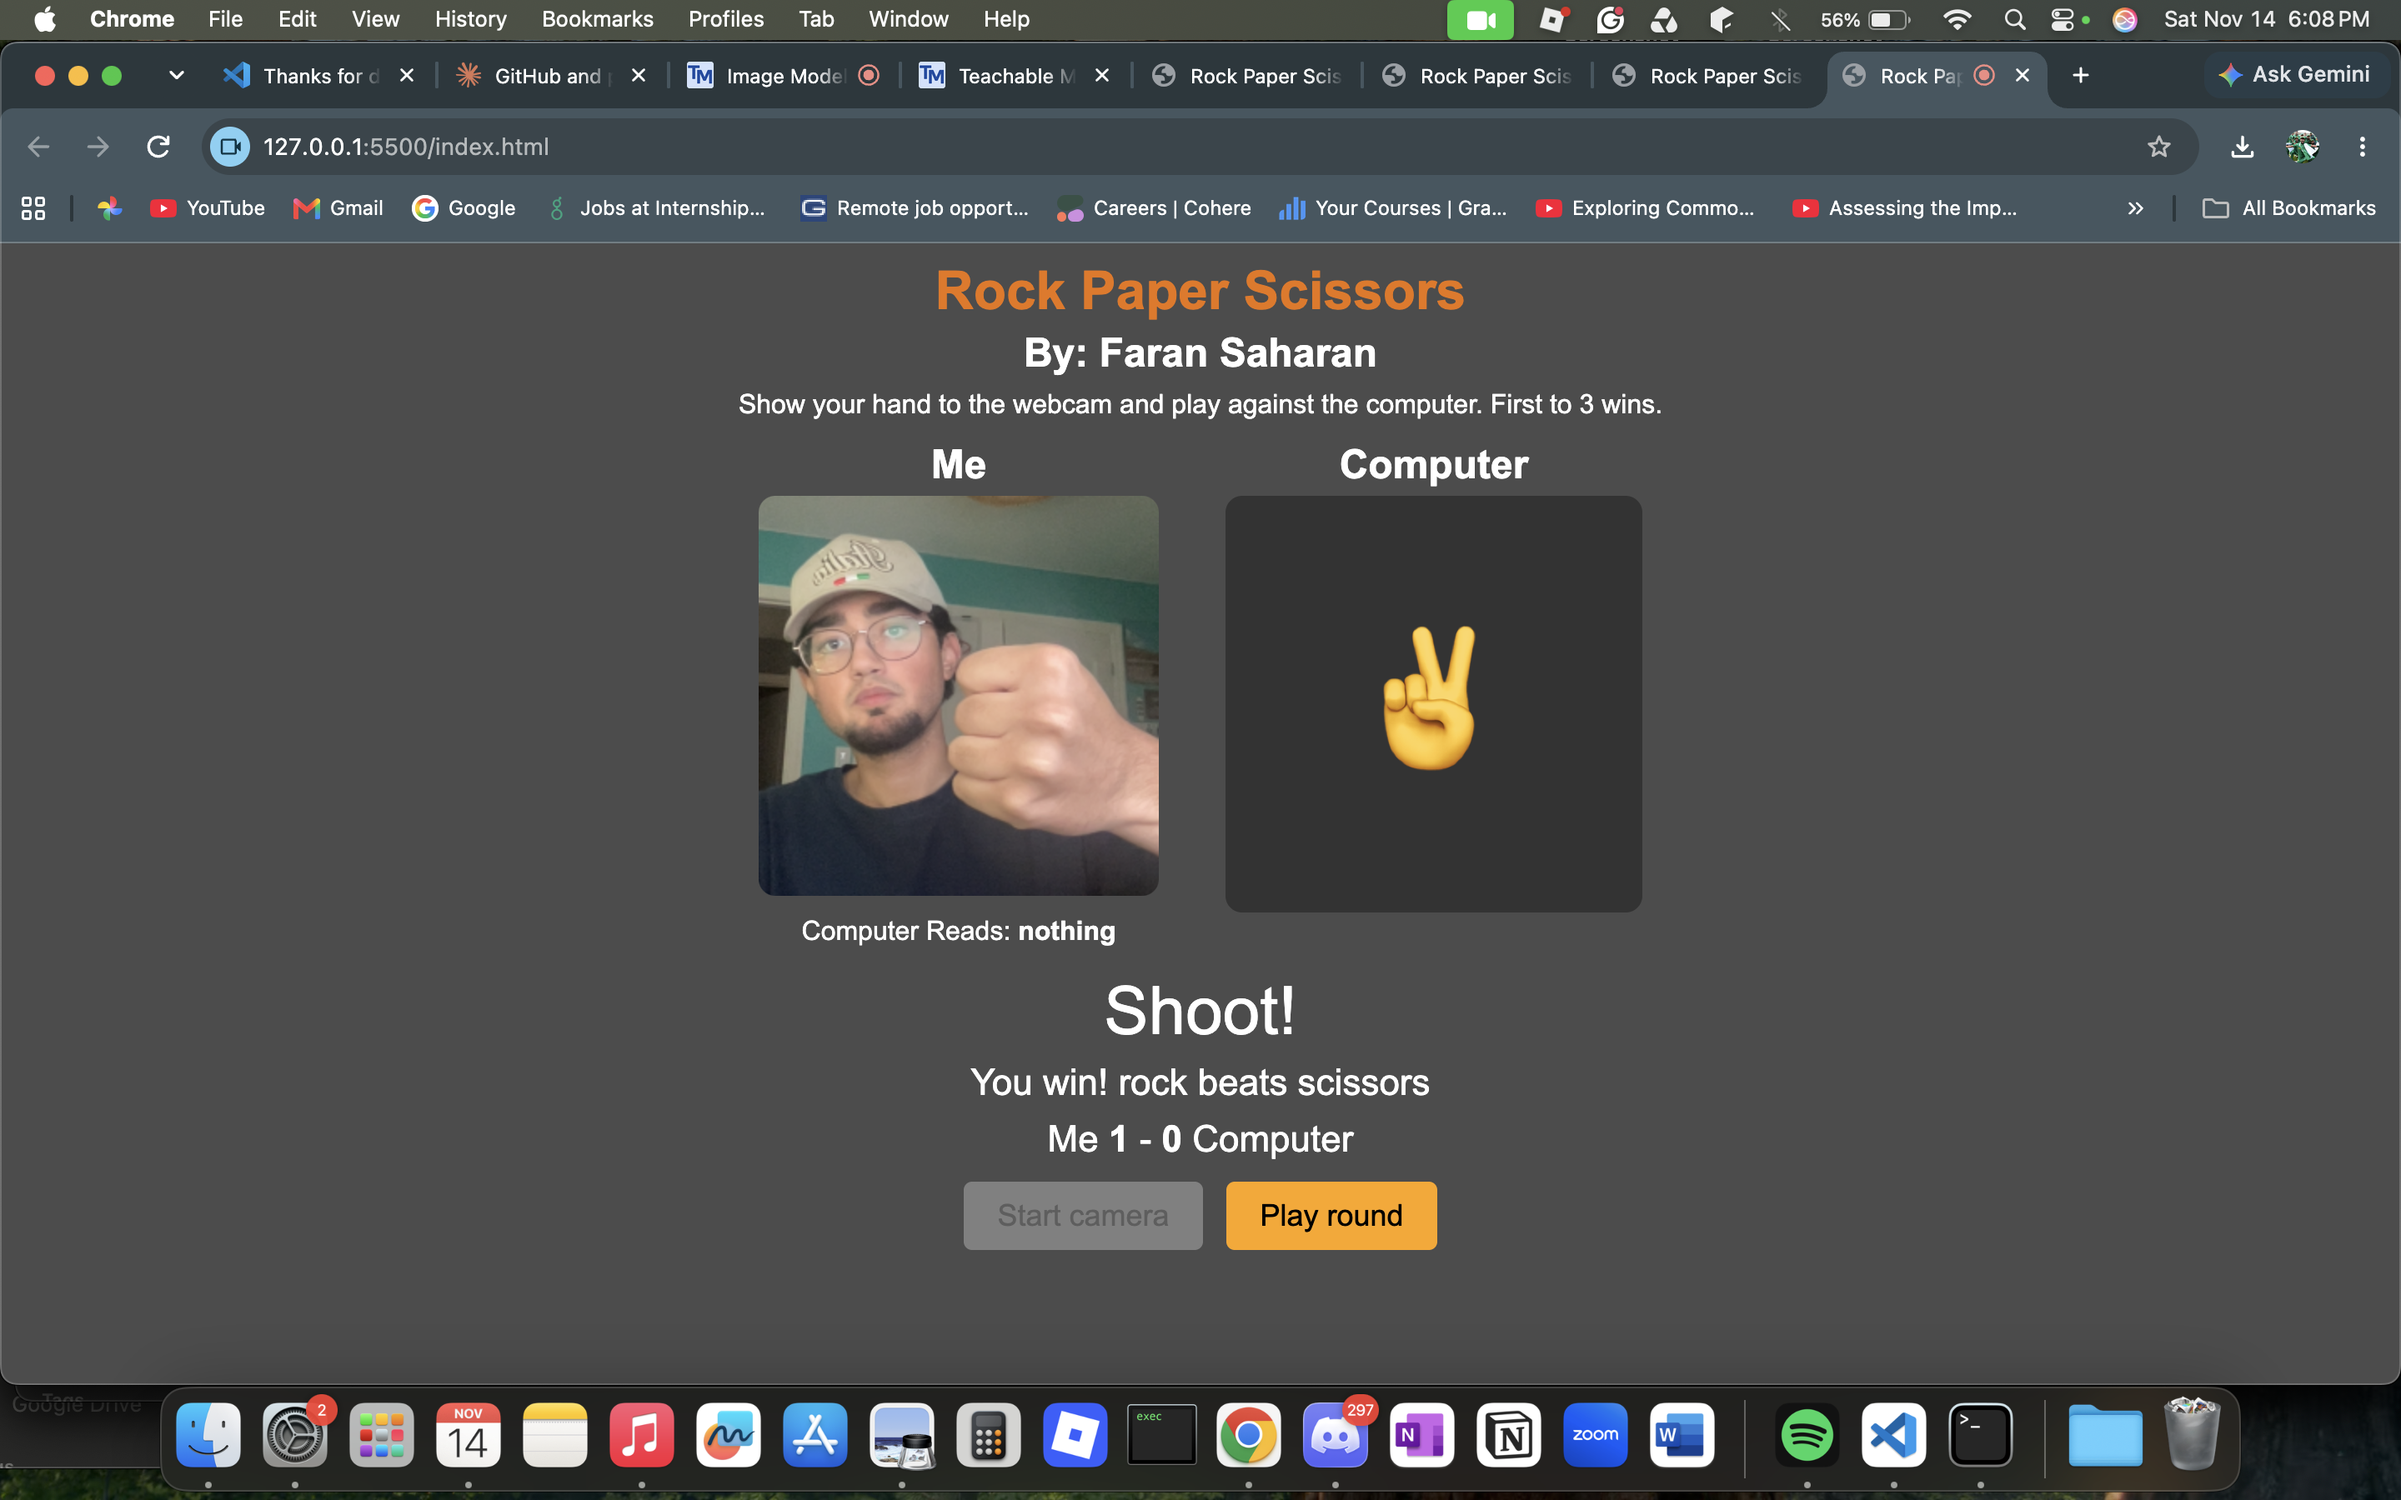
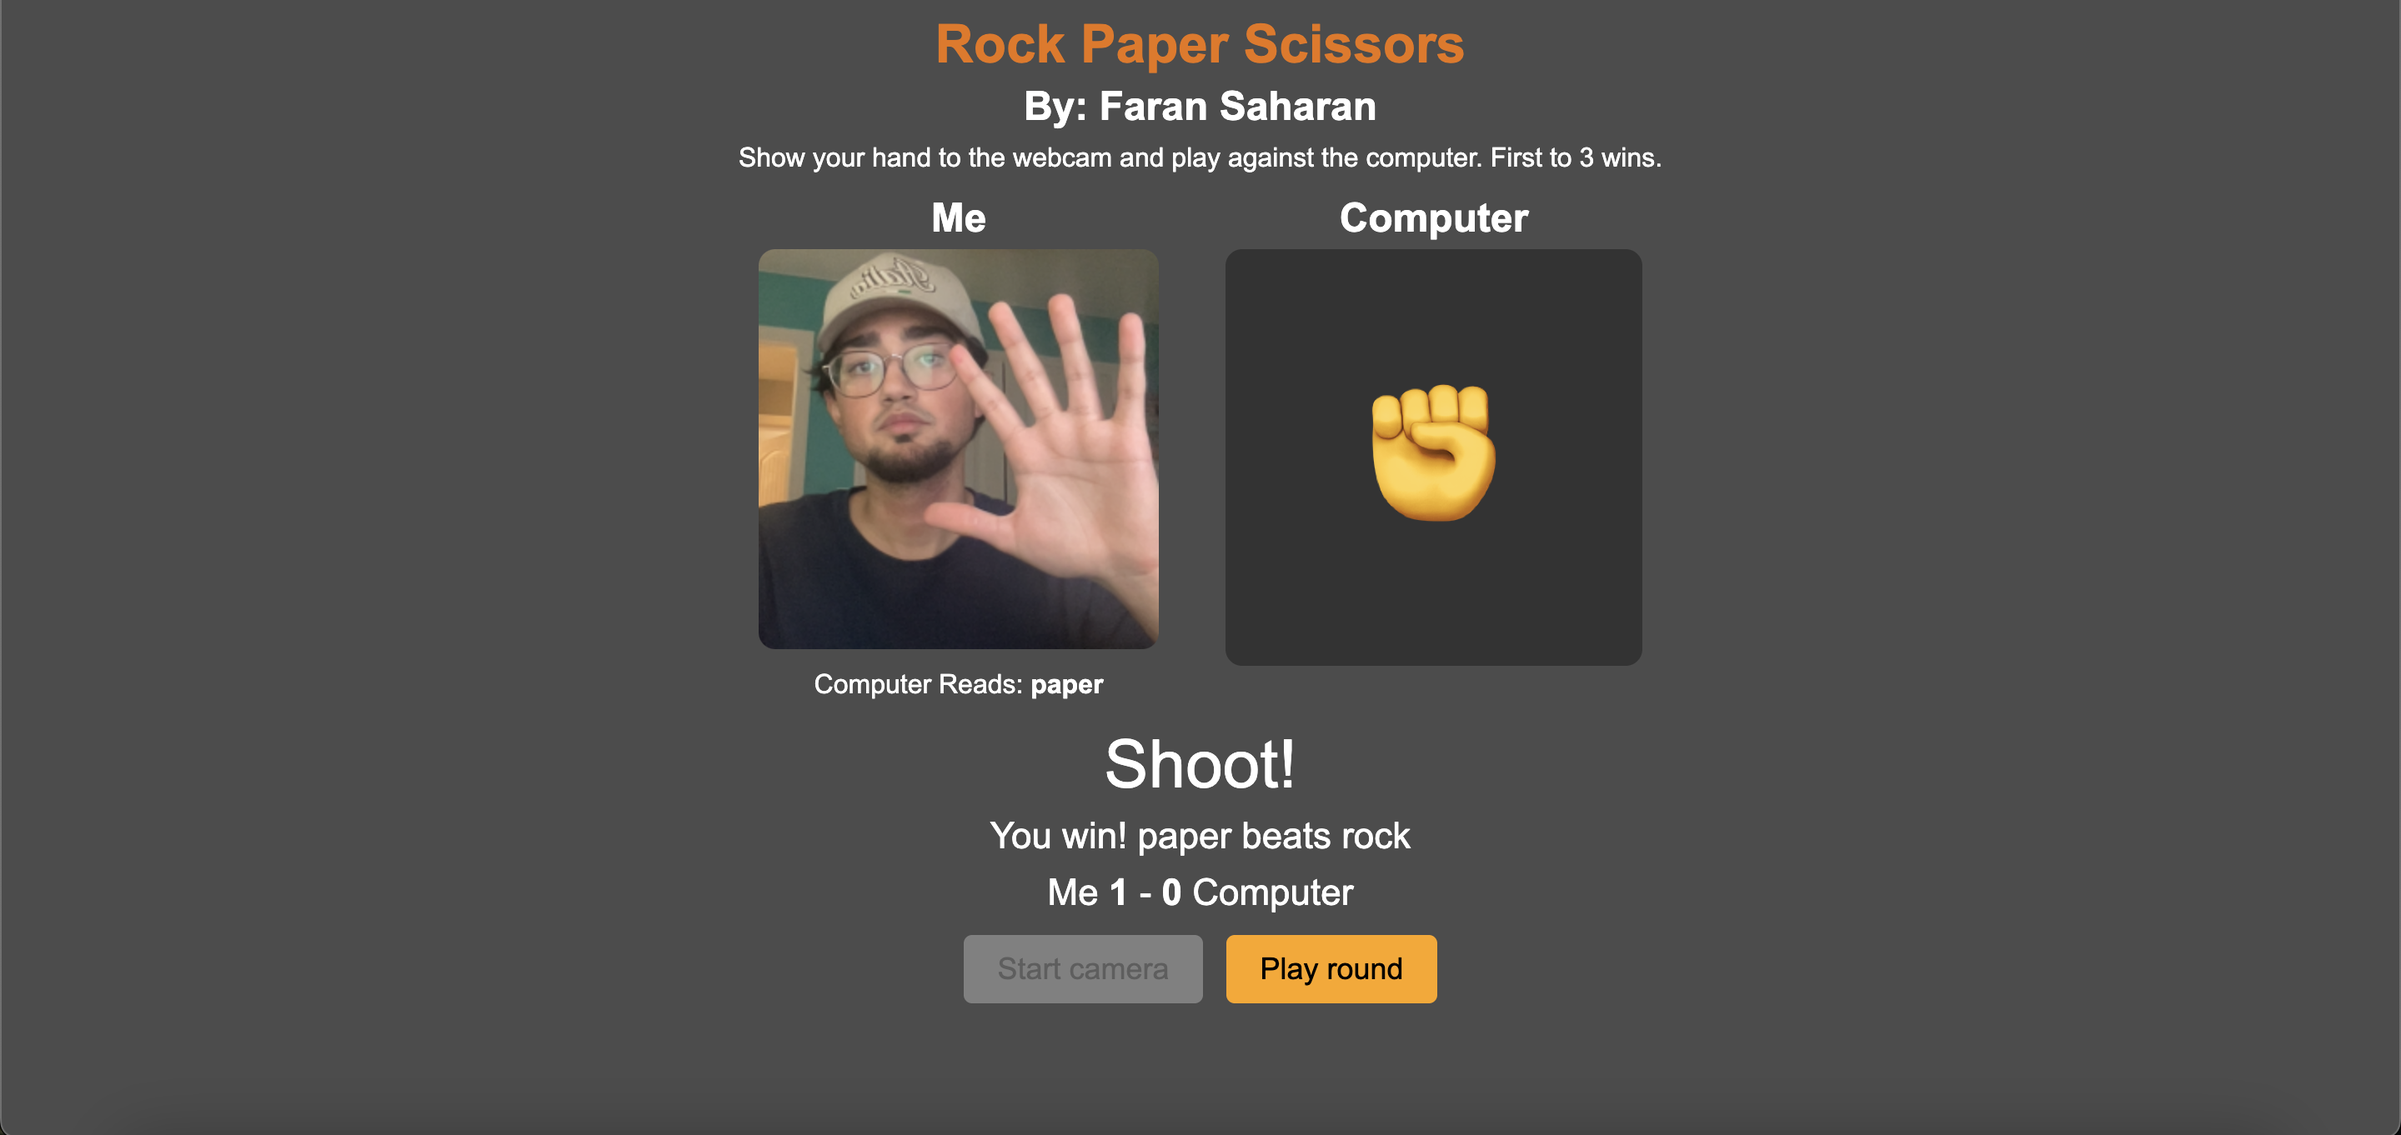
add README with screenshots

diff --git a/README.md b/README.md
@@ -11,6 +11,10 @@ Play rock paper scissors against the computer using your webcam. Show your hand,
 
 I trained an image model with Google's Teachable Machine using 4 classes: rock, paper, scissors and nothing. The "nothing" class is so it doesn't guess a hand when there isn't one.
 
+I took 350+ webcam photos for each class (around 1,400 total). I moved my hand around while recording: closer and further from the camera, different angles, left and right side of the frame. That way the model learns the hand shape and not just one position.
+
+![Training the model in Teachable Machine](images/training.png)
+
 The game runs the model on every webcam frame. It only counts a guess if the model is more than 60% sure. When you hit "Play round" there's a 3-2-1 countdown, and whatever it sees at "Shoot!" is your move.
 
 ## Built with
